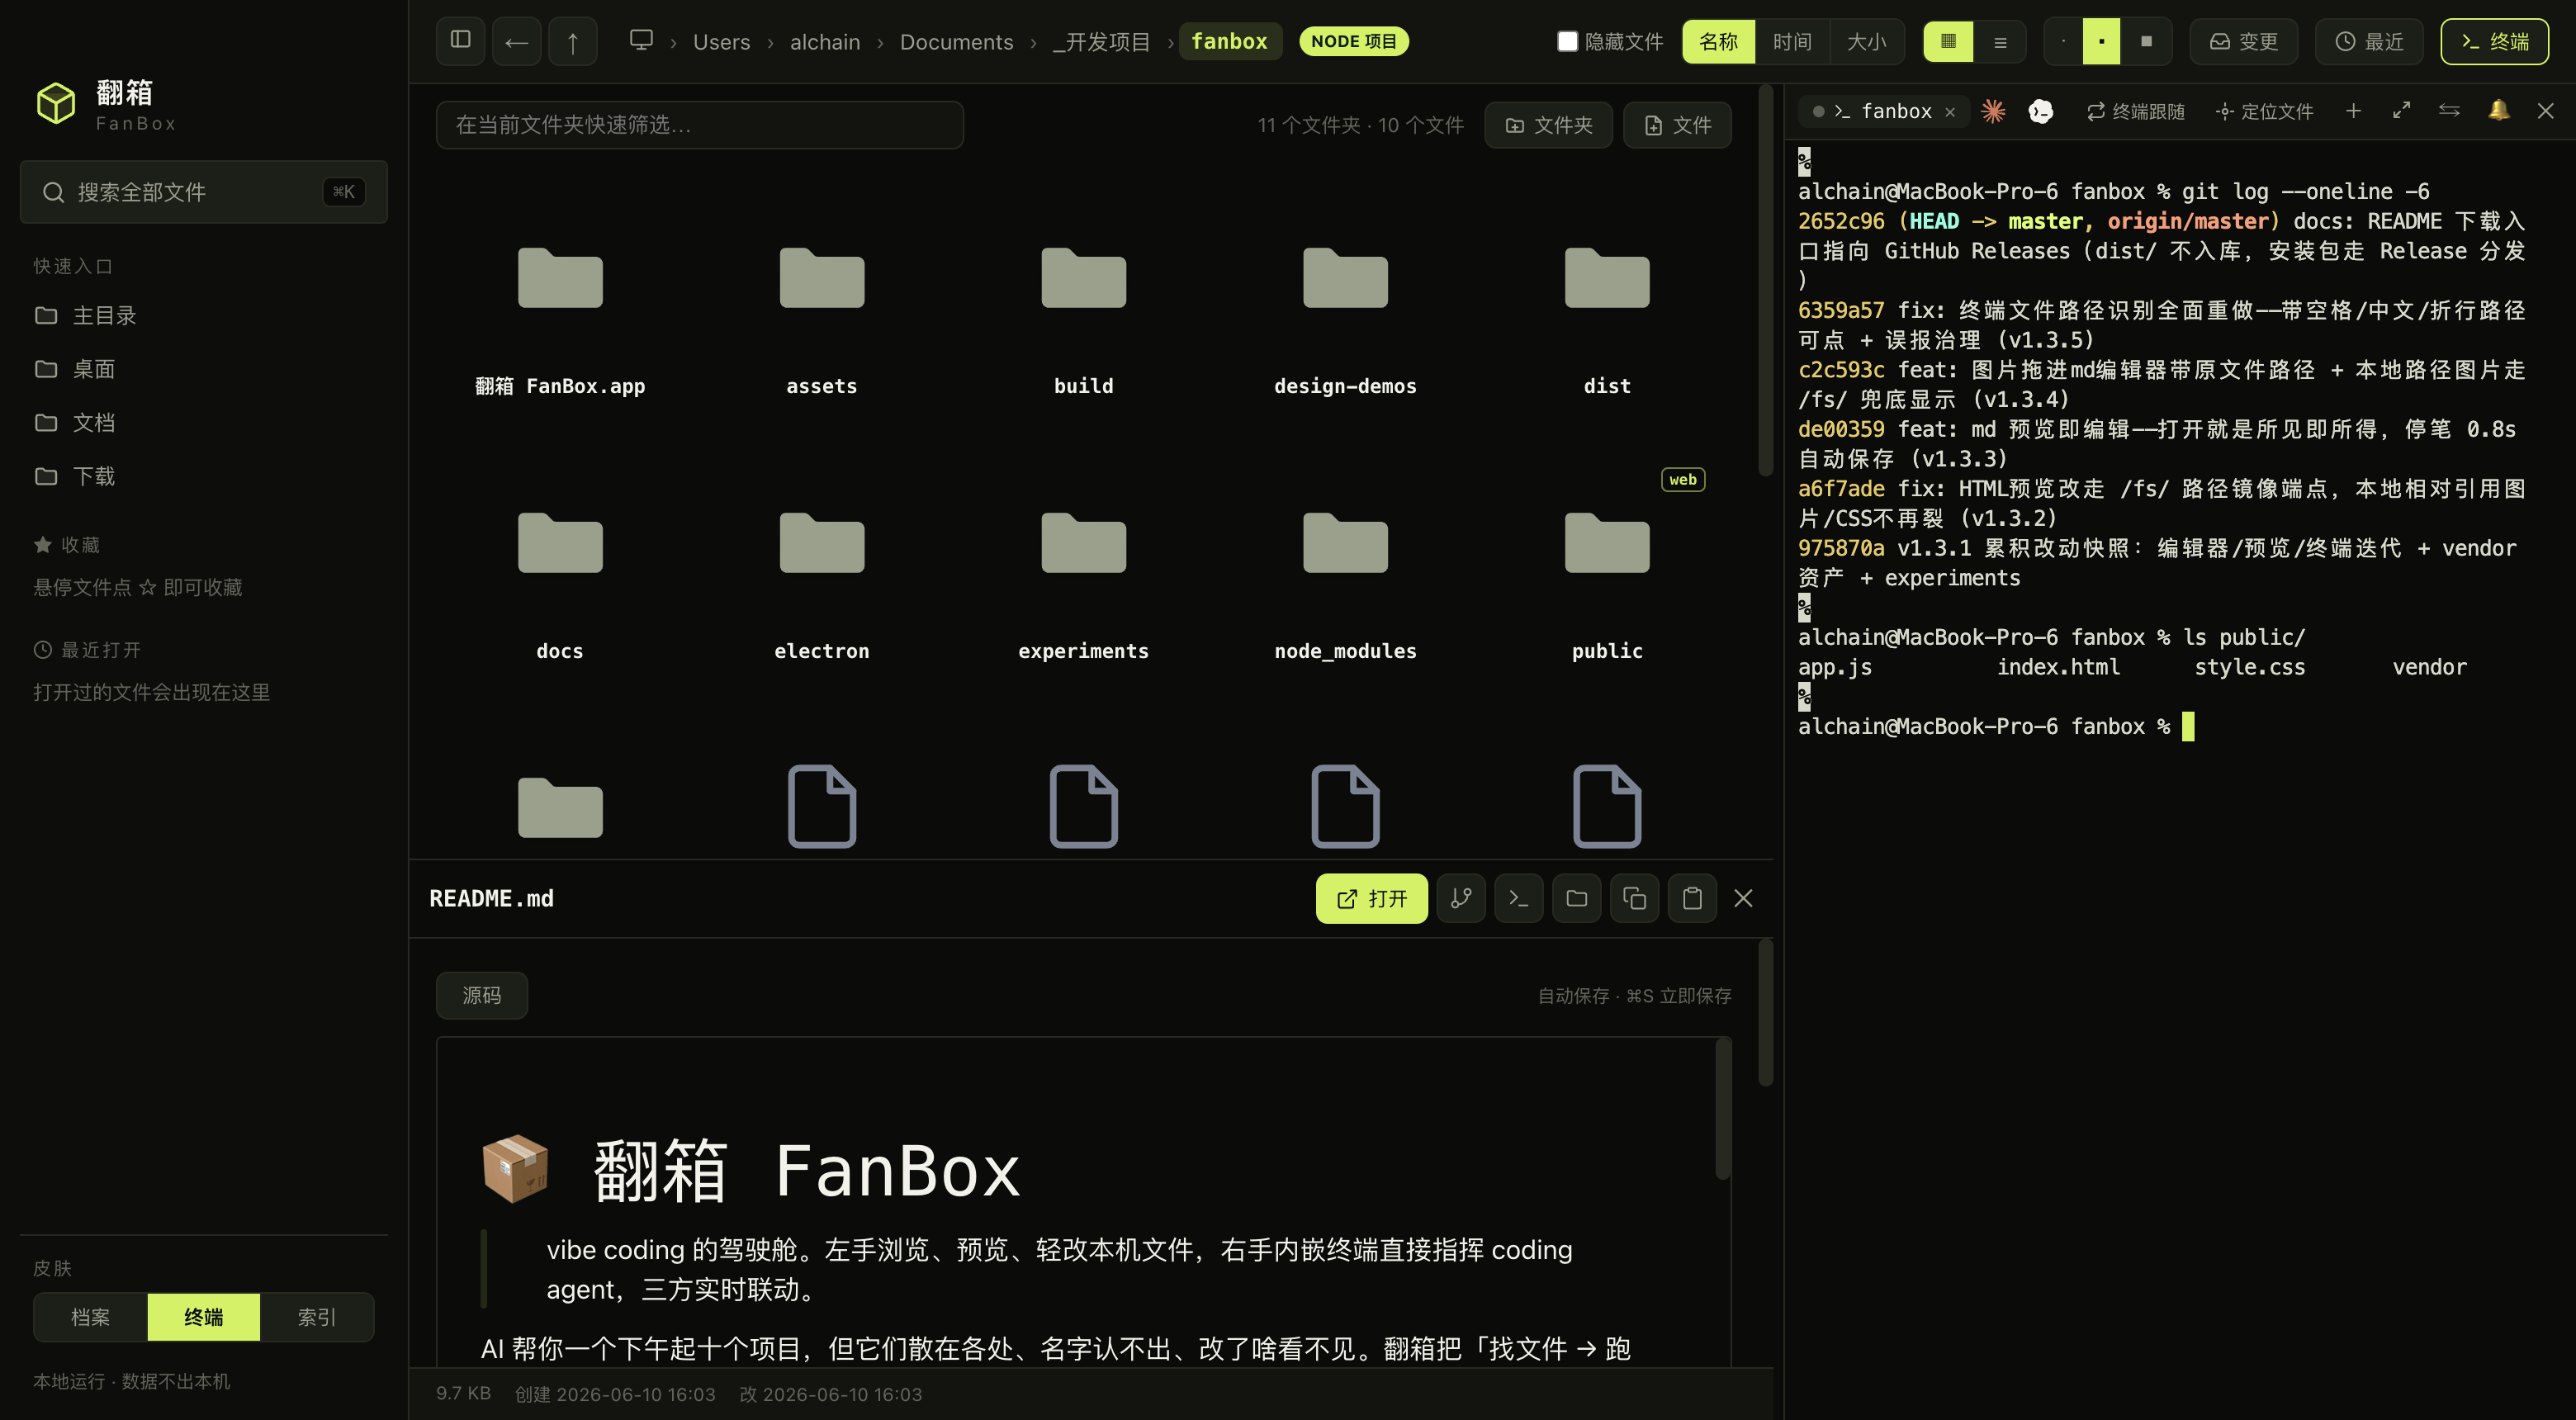
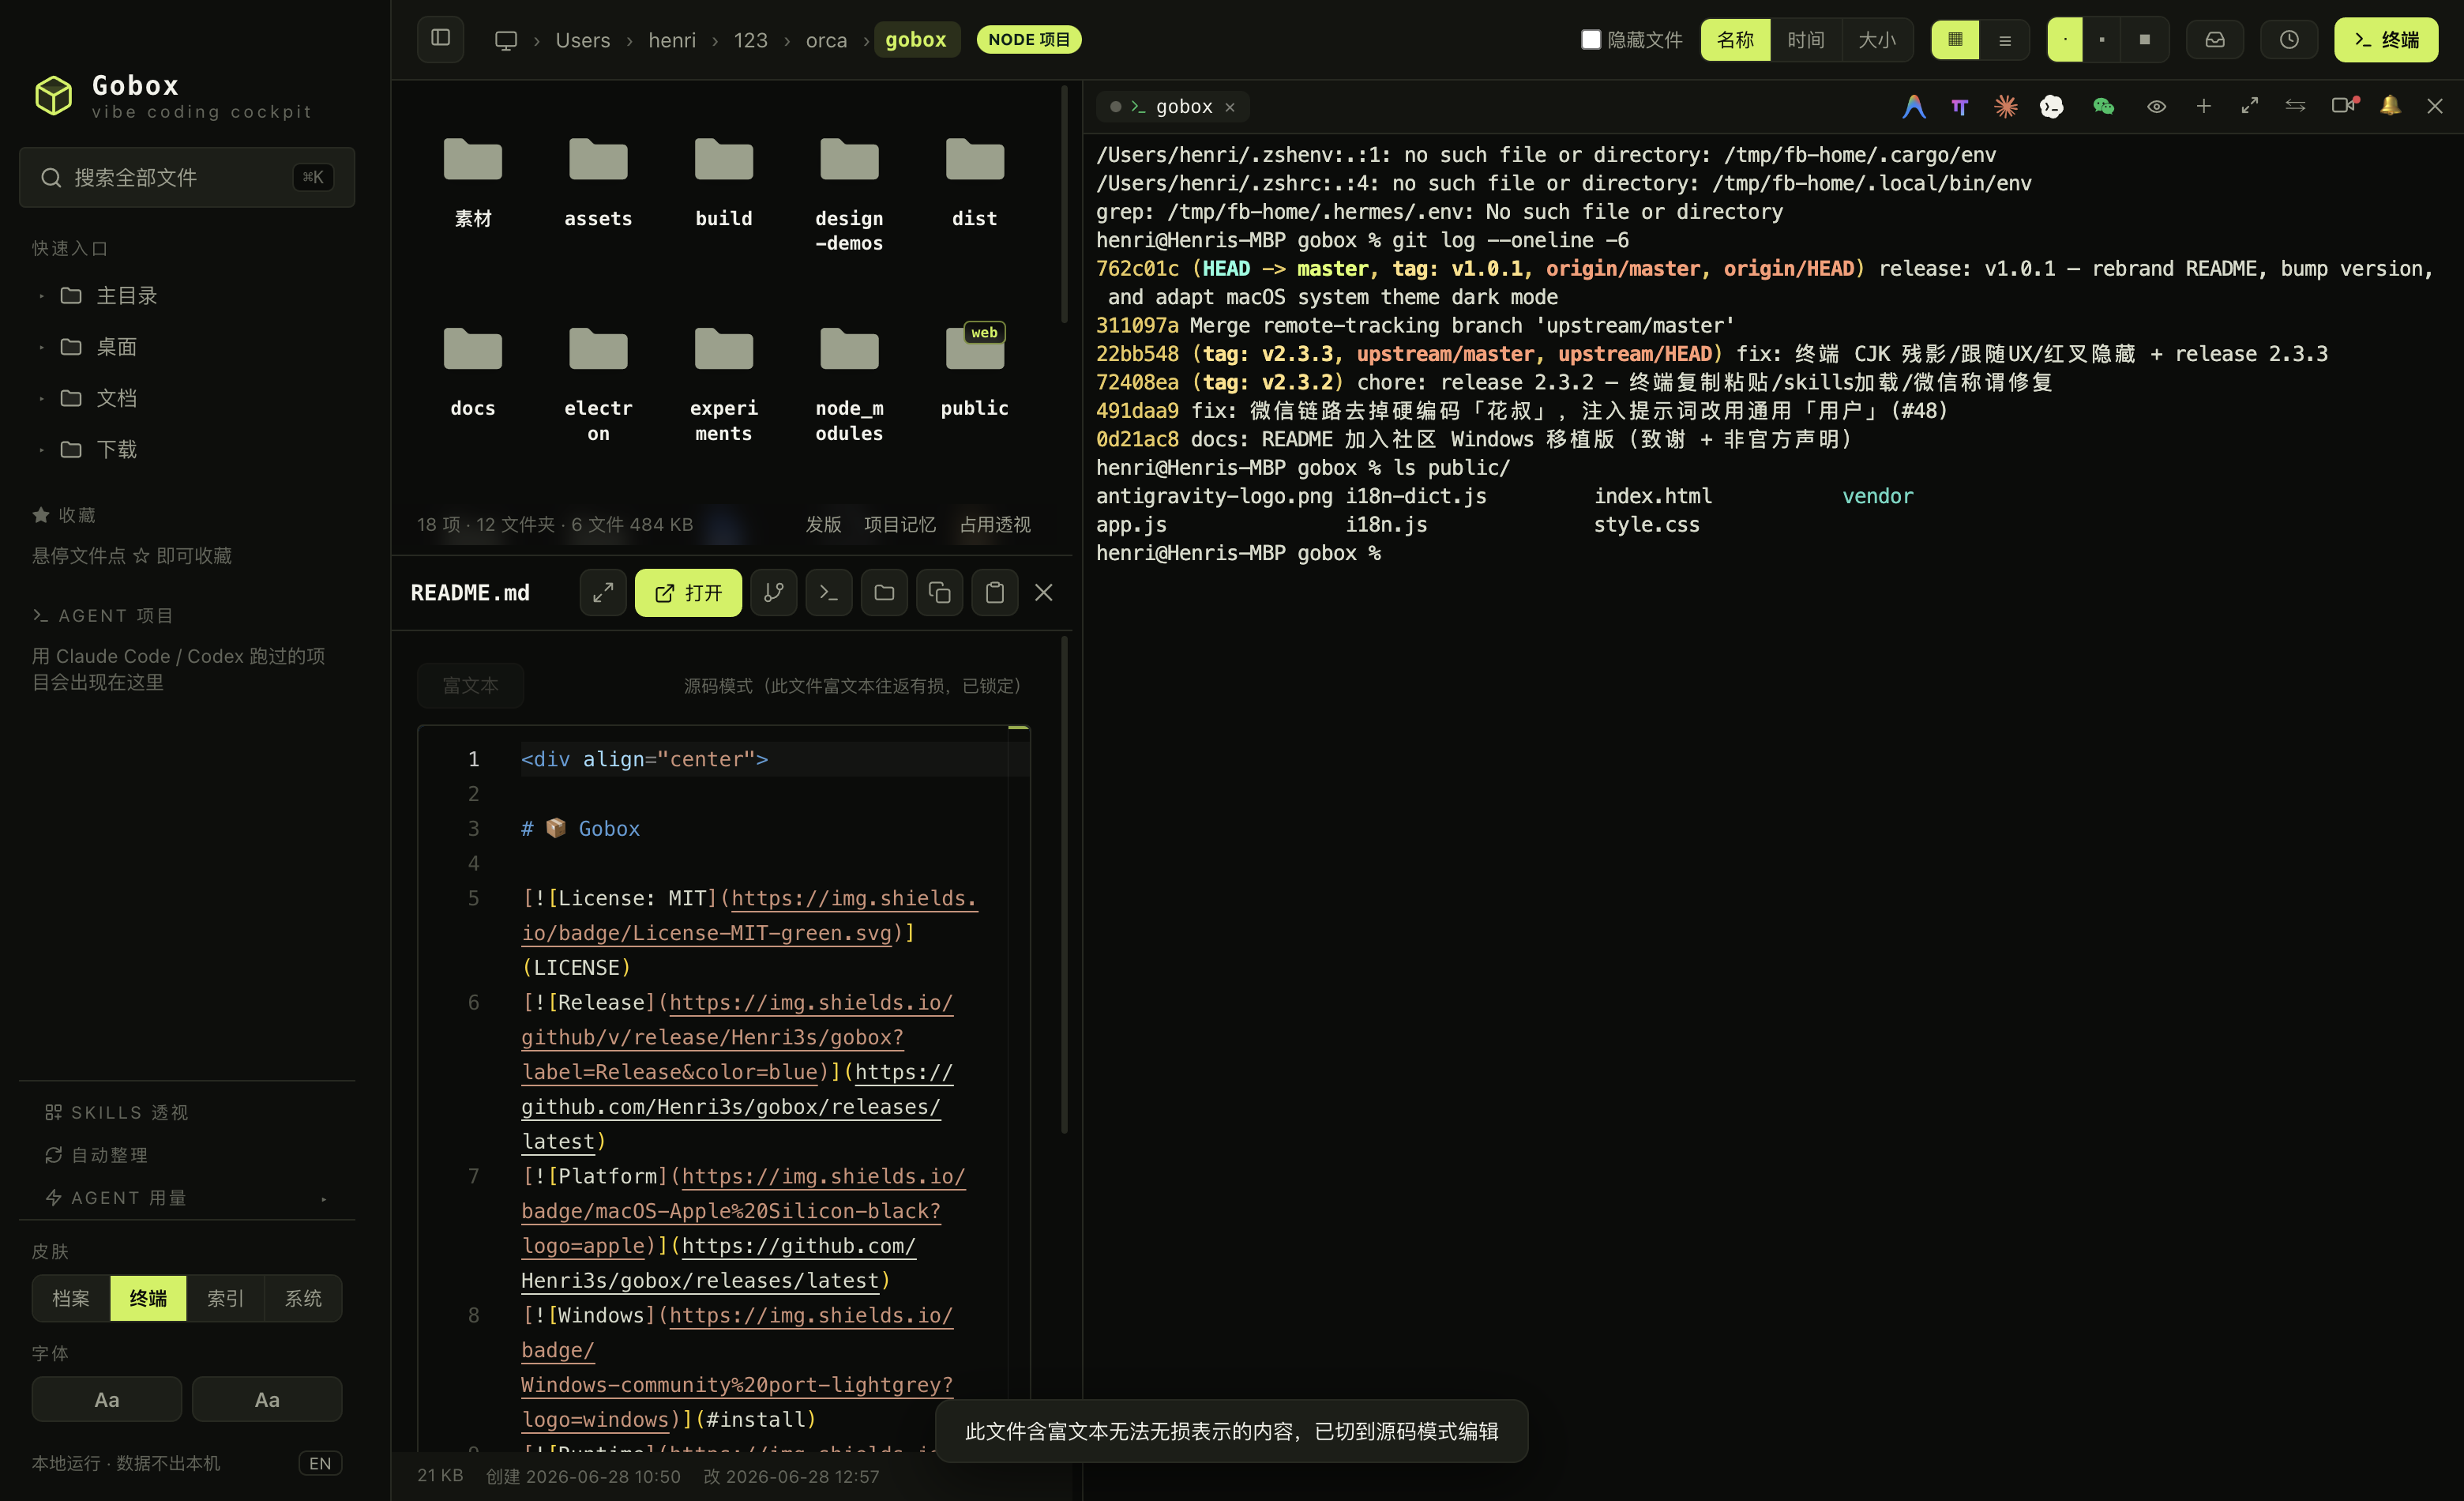
release: v1.0.2 — regenerate and include macOS System skin screenshots in README

diff --git a/experiments/readme-shots/shoot.js b/experiments/readme-shots/shoot.js
@@ -34,11 +34,17 @@ const FAKE_HOME = '/tmp/fb-home';
   // 预览 README
   await win.evaluate(() => { const e = state.entries.find((x) => x.name === 'README.md'); if (e) openPreview(e); });
   await win.waitForTimeout(1500);
-  for (const name of ['终端', '档案', '索引']) {
+  const mapping = {
+    '终端': 'screenshot-volt.png',
+    '档案': 'screenshot-archive.png',
+    '索引': 'screenshot-index.png',
+    '系统': 'screenshot-system.png'
+  };
+  for (const name of ['终端', '档案', '索引', '系统']) {
     await win.evaluate((n) => { const b = [...document.querySelectorAll('button')].find((x) => x.textContent.trim() === n); if (b) b.click(); }, name);
     await win.waitForTimeout(900);
     await win.evaluate(() => document.querySelector('.guide-overlay')?.remove());
-    await win.screenshot({ path: path.join(ROOT, 'assets', `screenshot-${name}.png`) });
+    await win.screenshot({ path: path.join(ROOT, 'assets', mapping[name]) });
     console.log('shot', name);
   }
   await app.close();

diff --git a/README.md b/README.md
@@ -44,7 +44,7 @@ The four skins are not theme-color swaps — palette, typography, icons, code hi
 | <img src="assets/screenshot-volt.png" alt="Volt skin / 终端皮肤"> | **终端 · Volt** · 荧光绿 × 炭黑 × 等宽字，工业仪器面板感（默认）<br>**Volt** · neon green × charcoal × monospace, industrial instrument panel (default) |
 | <img src="assets/screenshot-archive.png" alt="Archive skin / 档案皮肤"> | **档案 · Archive** · 奶油纸 × 赤陶橙 × 衬线，温暖纸感档案馆<br>**Archive** · cream paper × terracotta × serif, a warm paper archive |
 | <img src="assets/screenshot-index.png" alt="Index skin / 索引皮肤"> | **索引 · Index** · 黑白 × 信号红/绿 × 巨号字，编辑式索引日报<br>**Index** · black & white × signal red/green × oversized type, editorial index daily |
-| <img src="assets/screenshot-volt.png" style="filter: opacity(0.8);" alt="System skin / 系统皮肤"> | **系统 · macOS Liquid Glass** · 跟随系统毛玻璃、实时同步系统强调色与深浅外观，原生 macOS 质感<br>**macOS** · follows system Liquid Glass, syncs accent color and light/dark in real time, native macOS feel |
+| <img src="assets/screenshot-system.png" alt="System skin / 系统皮肤"> | **系统 · macOS Liquid Glass** · 跟随系统毛玻璃、实时同步系统强调色与深浅外观，原生 macOS 质感<br>**macOS** · follows system Liquid Glass, syncs accent color and light/dark in real time, native macOS feel |
 
 ---
 